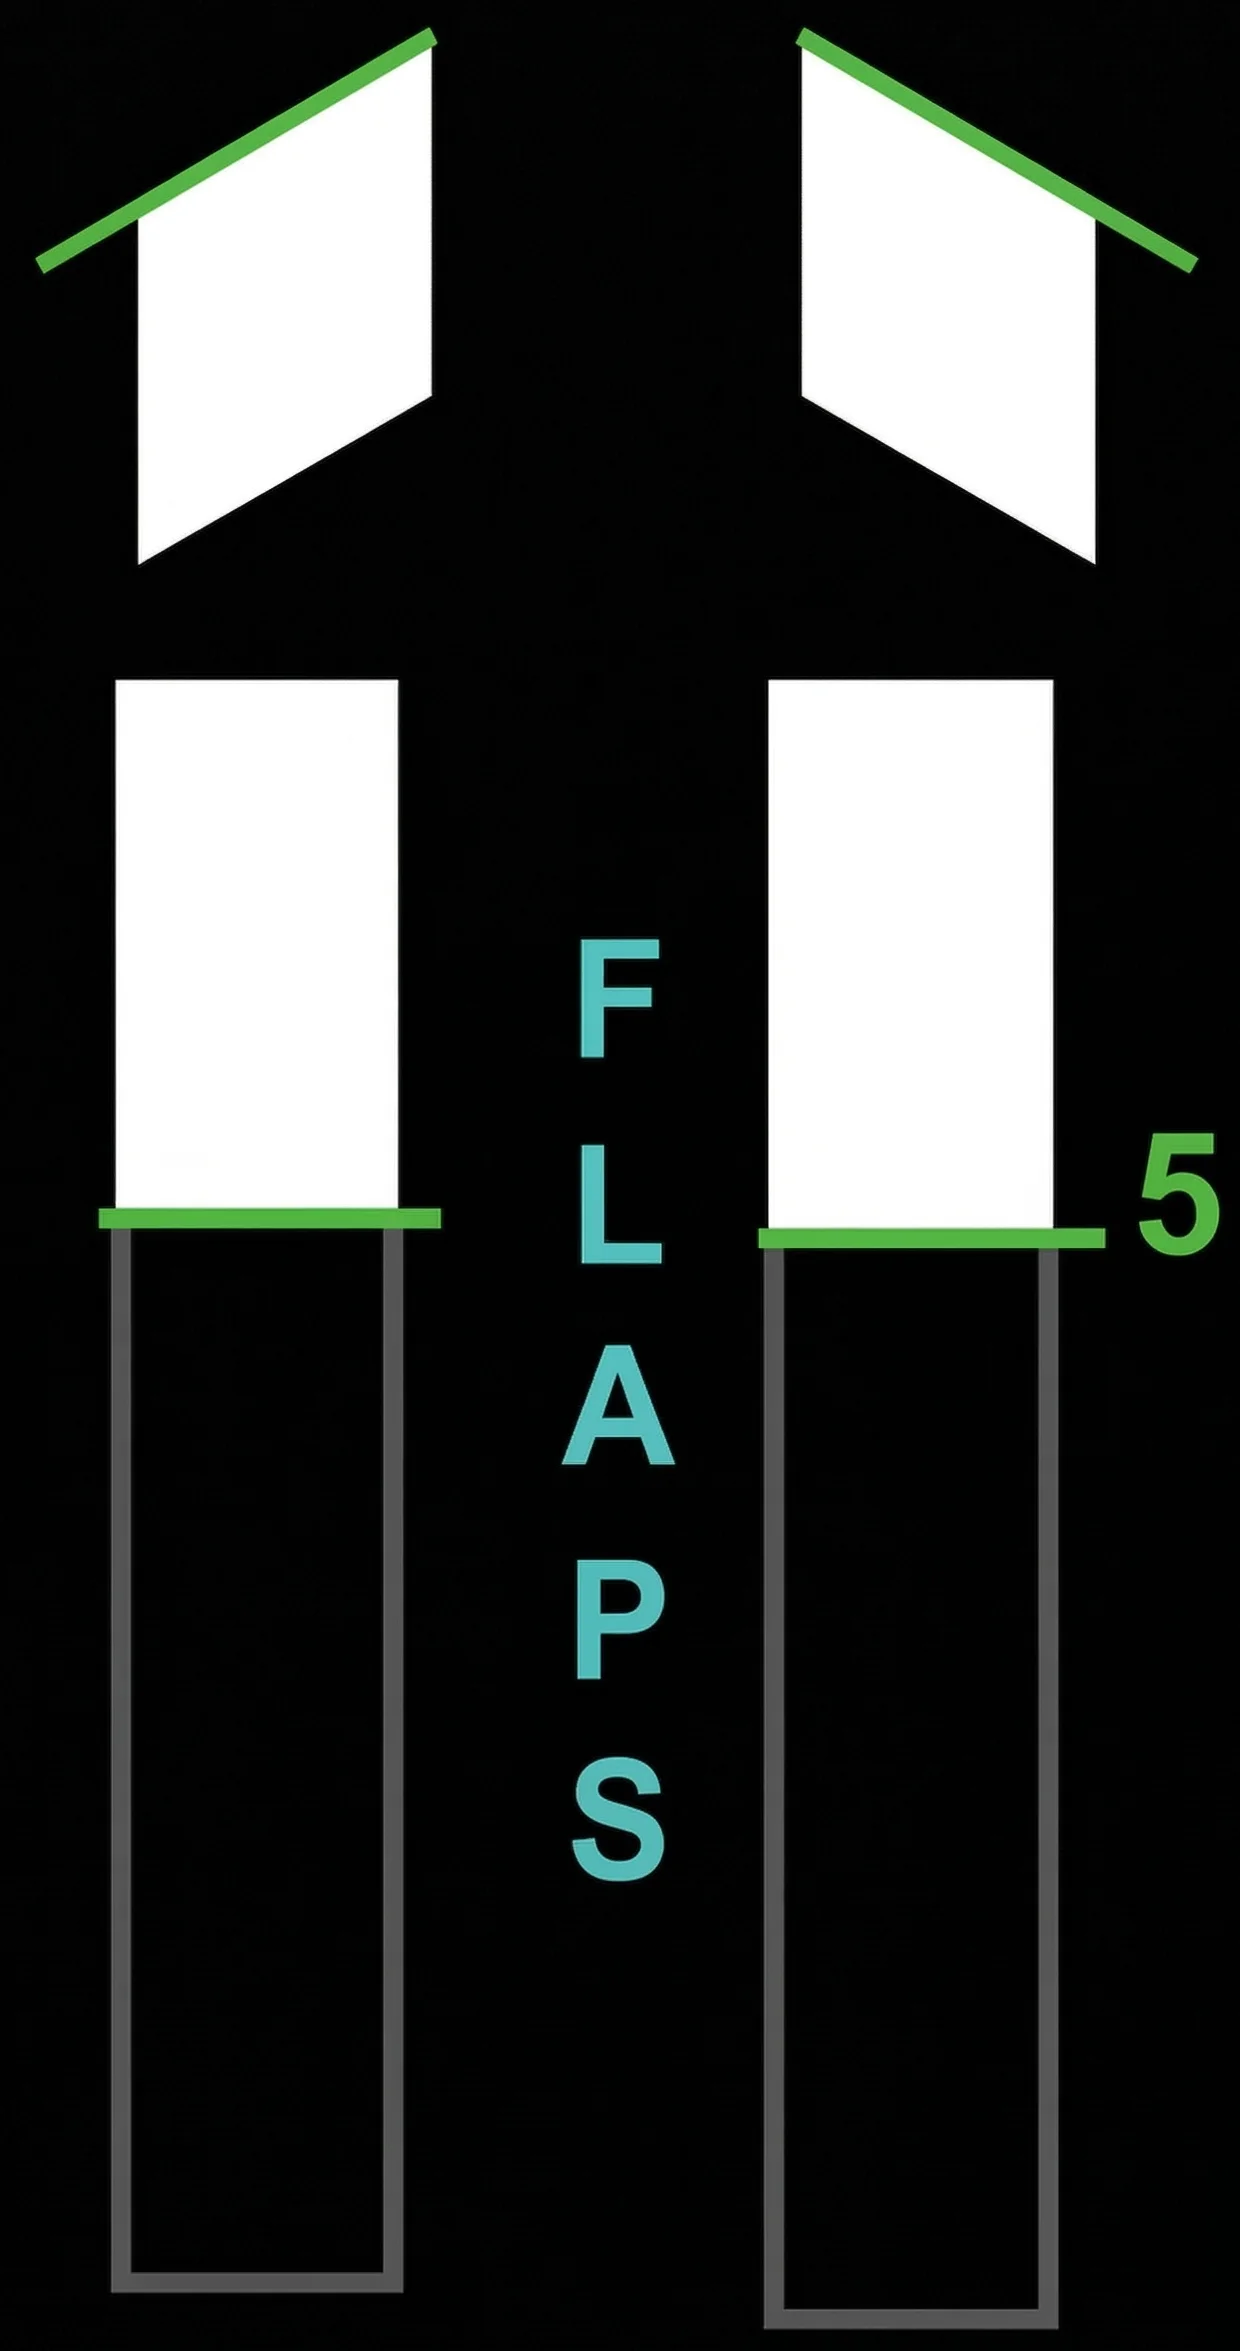
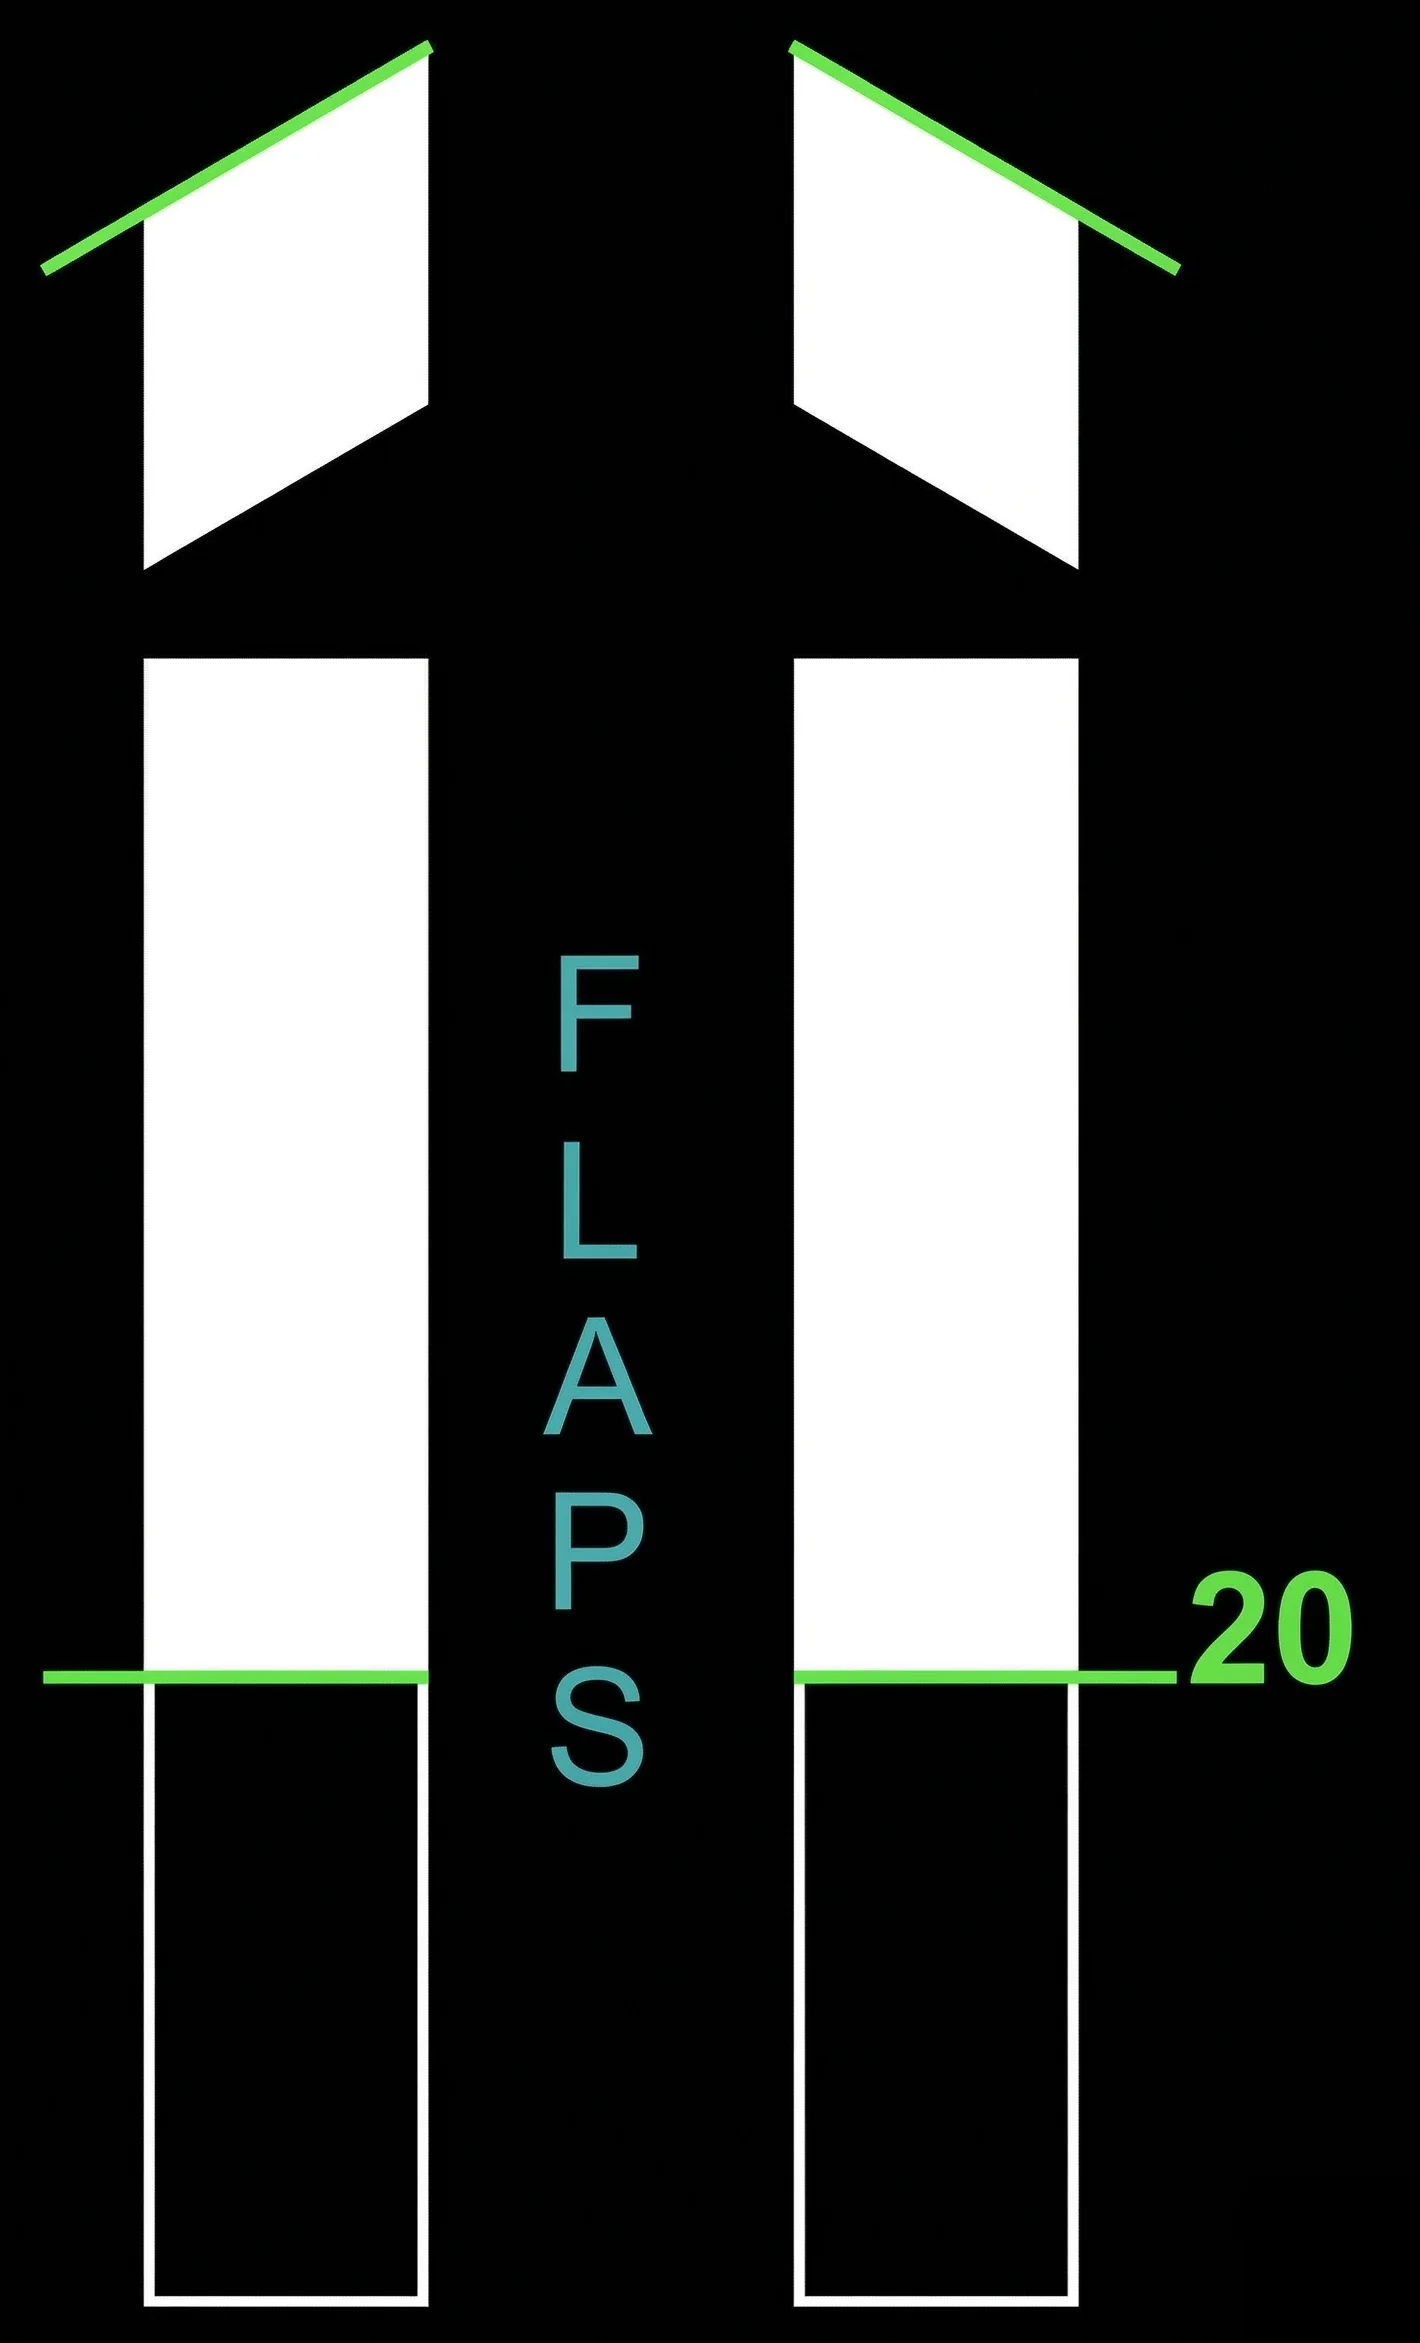
Quartz sync: Apr 13, 2026, 11:40 AM

diff --git a/content/Systems/Flight Controls & Protections.md b/content/Systems/Flight Controls & Protections.md
@@ -67,15 +67,15 @@ The B787 primary flight control system is a **fly-by-wire** system. Pilot inputs
 - **Primary mode:** Hydraulic (System C) — slats and flaps controlled together
 - If slats hydraulic control fails: flaps remain hydraulically driven, slats are powered electrically
 - **Alternate mode armed:** Slats extend to mid range position only
-- Slat Autogap available in primary mode only
+- **Slat Autogap** (primary mode only): At high AOA and speed < 225 kts, slats automatically extend from mid range to fully extended. Retract to mid range when AOA decreases.
 
 ### Flap/Slat Modes
 
 | Mode | Drive | Control |
 |:---|:---|:---|
 | **Primary** | Hydraulic (System C) | Slats + flaps together |
-| **Secondary** | Hydraulic or electric | Controlled separately |
-| **Alternate** | Electric | via Alternate Flap Selector |
+| **Secondary** | Hydraulic or electric | Controlled separately — flaps limited to 20<br>Slats pre-gap only |
+| **Alternate** | Electric | via Alternate Flap Selector<br>Slats max mid range — flaps max 20 |
 
 > [!info]- Primary Mode
 > ![[flap normal.webp]]

diff --git a/content/Systems/Flight Envelope Protections.md b/content/Systems/Flight Envelope Protections.md
@@ -29,5 +29,5 @@ tags: [systems, flight-controls, protections]
 | Protection | Aktiviert bei | Wirkung |
 |:---|:---|:---|
 | **Flap/Slat Load Relief** | Klappen ausgefahren bei zu hoher SPD | Auto-Einfahren<br>Ausfahren bei SPD-Abnahme |
-| **Slat Autogap** | Hoher AOA (primary mode only) | Slats automatisch T/O → LDG Position |
+| **Slat Autogap** | Hoher AOA + SPD < 225 kts<br>(primary mode only) | Slats auto mid range → fully extended<br>Retract when AOA decreases |
 | **Asymmetry/Skew Protection** | Ungleichmäßiges Aus-/Einfahren | Antrieb wird abgeschaltet |
